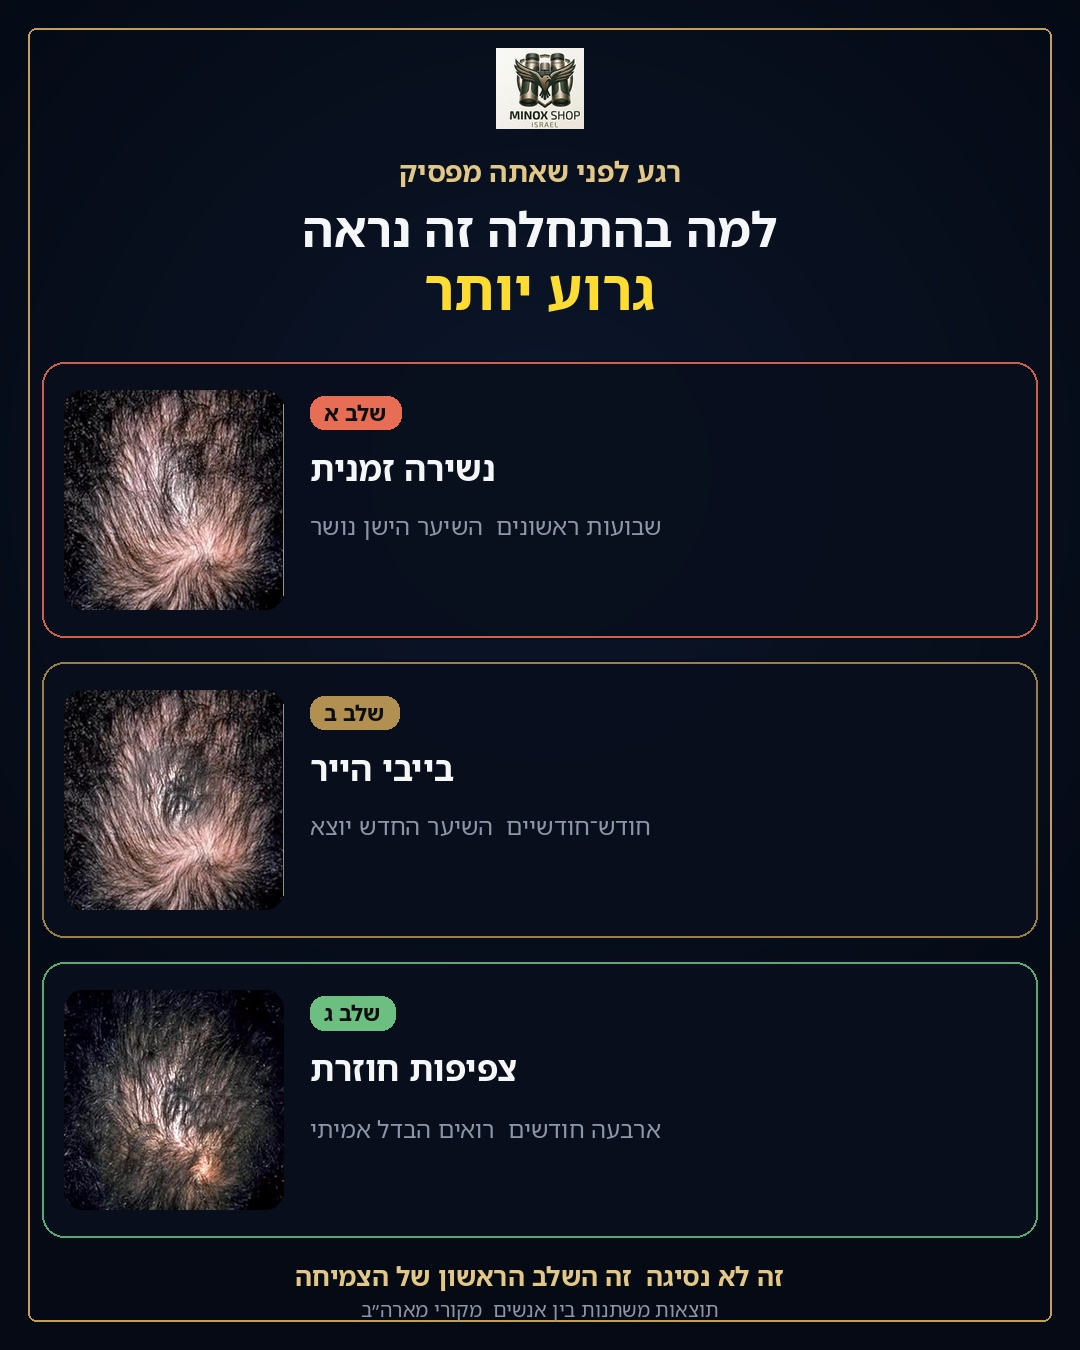
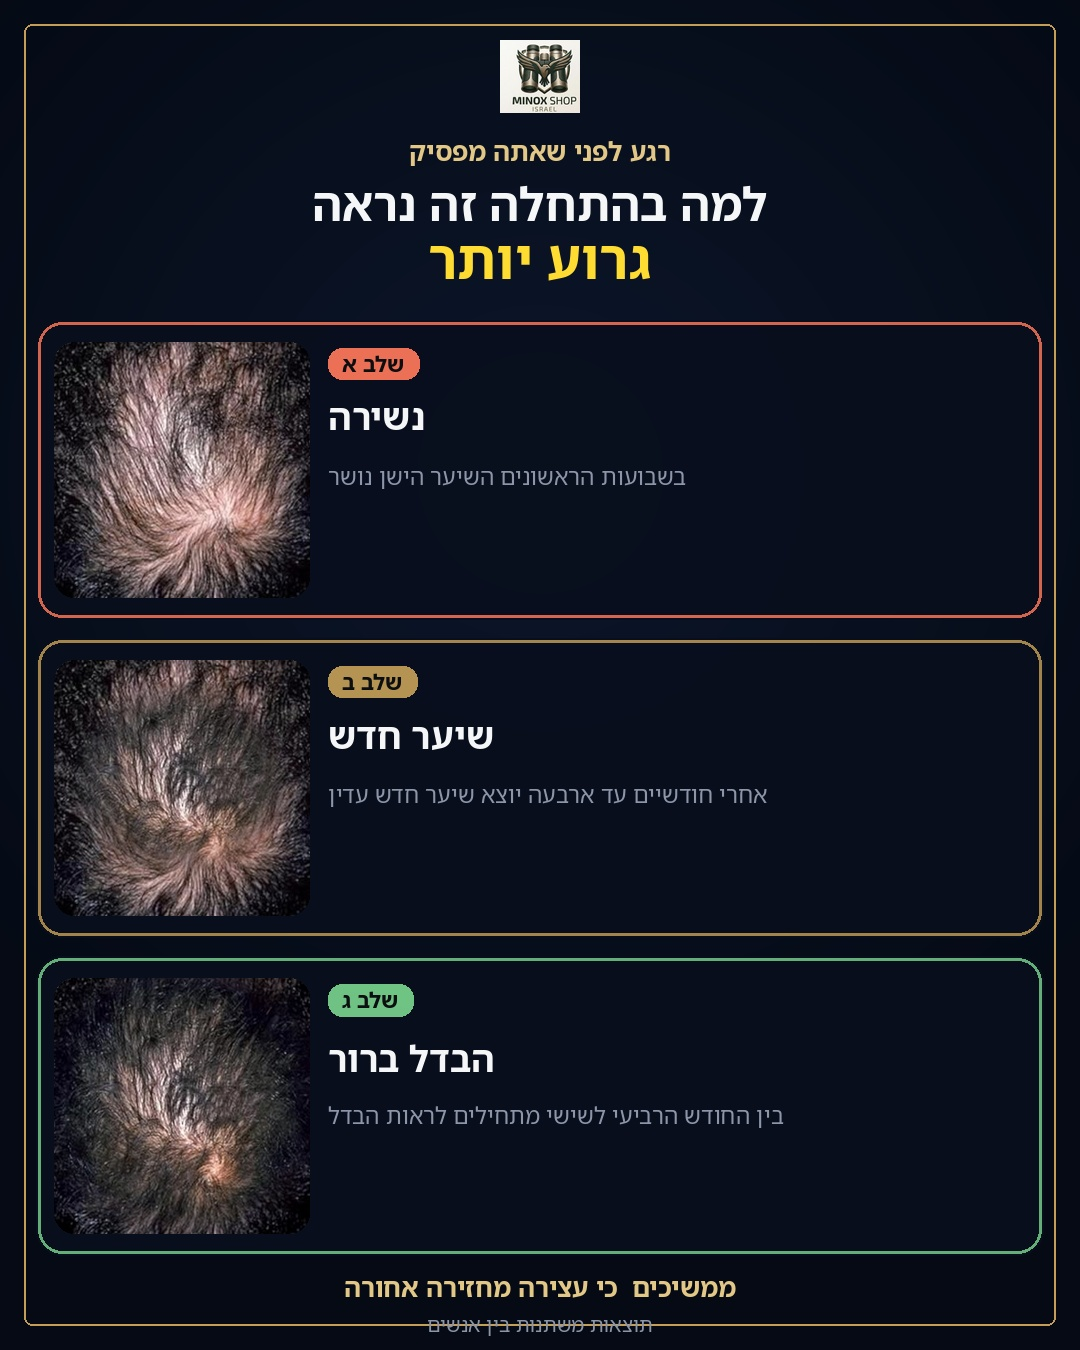
Fix shed-stages static: same-case A→B→C + honest copy (#197)
* Fix shed-stages static: distinct same-case plates + honest copy

Bigger photos, A→B→C on one crown, banner chrome cropped, timelines
corrected, titles נשירה/שיער חדש/הבדל ברור, keep-going closer.

* Strengthen mid-stage blend so A/B/C rank by eye

---------

Changed region(s): [[0.0, 0.0, 0.9778, 0.9956], [0.7028, 0.8089, 0.7333, 0.84], [0.7028, 0.2178, 0.7333, 0.2489]]

diff --git a/scripts/build_minox_static_shed_stages_v2.py b/scripts/build_minox_static_shed_stages_v2.py
@@ -1,0 +1,315 @@
+#!/usr/bin/env python3
+"""MinoxShop static IG post v2 — dread-shed stages, panel fixes.
+
+Fixes: 3 visually distinct plates, bigger photos, honest timelines,
+no «מקורי מארה״ב» on a no-pack educational post, keep-going closer.
+"""
+from __future__ import annotations
+
+import shutil
+from pathlib import Path
+
+import numpy as np
+from PIL import Image, ImageDraw, ImageEnhance, ImageFont
+
+ROOT = Path("/tmp/static-shed-v2")
+ASSETS = ROOT / "assets"
+OUT = ROOT / "out"
+EXPORTS = Path("/agent/repos/barbero-shop/exports")
+for p in (OUT, EXPORTS, ASSETS):
+    p.mkdir(parents=True, exist_ok=True)
+
+_SRC = Path("/tmp/static-shed/assets")
+if _SRC.exists():
+    for name in (
+        "ba-before.jpg",
+        "ba-after.jpg",
+        "res_before.jpg",
+        "res_after.jpg",
+        "strip_before.jpg",
+        "strip_after.jpg",
+        "plate_a.jpg",
+        "plate_c.jpg",
+        "main-logo.png",
+    ):
+        if (_SRC / name).exists():
+            shutil.copy2(_SRC / name, ASSETS / name)
+
+# inset plates from results strip — kill BEFORE/AFTER chrome bars (banner ~y738+)
+_strip = Path("/agent/repos/barbero-shop/minoxshop-growth-hero/assets/results-4-months.png")
+if _strip.exists():
+    r = Image.open(_strip).convert("RGB")
+    w, h = r.size
+    top, bot = 40, 720  # content only — flat banner starts ~738
+    r.crop((30, top, w // 2 - 20, bot)).save(ASSETS / "plate_a.jpg", quality=93)
+    r.crop((w // 2 + 20, top, w - 30, bot)).save(ASSETS / "plate_c.jpg", quality=93)
+
+W, H = 1080, 1350
+
+NAVY = (12, 22, 42)
+NAVY_DEEP = (5, 10, 20)
+GOLD = (196, 158, 86)
+GOLD_SOFT = (226, 199, 135)
+IVORY = (245, 246, 248)
+YELLOW = (255, 220, 50)
+MUTED = (140, 150, 168)
+
+FONT_HE_B = "/usr/share/fonts/truetype/noto/NotoSansHebrew-Bold.ttf"
+FONT_HE_R = "/usr/share/fonts/truetype/noto/NotoSansHebrew-Regular.ttf"
+
+
+def font(size: int, bold: bool = True):
+    return ImageFont.truetype(FONT_HE_B if bold else FONT_HE_R, size)
+
+
+def text_bb(draw, text, fnt):
+    bb = draw.textbbox((0, 0), text, font=fnt, language="he")
+    return bb[2] - bb[0], bb[3] - bb[1], bb
+
+
+def draw_he(d, xy, text, fnt, fill):
+    d.text(xy, text, font=fnt, fill=fill, language="he")
+
+
+def center_he(im, text, y, size, fill, bold=True):
+    layer = Image.new("RGBA", im.size, (0, 0, 0, 0))
+    d = ImageDraw.Draw(layer)
+    f = font(size, bold)
+    tw, th, bb = text_bb(d, text, f)
+    draw_he(d, ((W - tw) // 2 - bb[0], y - bb[1]), text, f, fill)
+    im.alpha_composite(layer)
+    return th
+
+
+def trim_white(im: Image.Image) -> Image.Image:
+    arr = np.asarray(im.convert("RGB"))
+    bright = arr.mean(axis=2) > 230
+    col = bright.mean(axis=0)
+    left = next((i for i, f in enumerate(col) if f < 0.3), 0)
+    right = next((i for i in range(len(col) - 1, -1, -1) if col[i] < 0.5), len(col) - 1)
+    if right - left < arr.shape[1] * 0.7:
+        return im
+    return im.crop((left, 0, right + 1, arr.shape[0]))
+
+
+def fit_square(im: Image.Image, size: int, y_bias: float = 0.38) -> Image.Image:
+    w, h = im.size
+    scale = max(size / w, size / h) * 1.06
+    nw, nh = int(w * scale + 0.5), int(h * scale + 0.5)
+    im = im.resize((nw, nh), Image.Resampling.LANCZOS)
+    x = (nw - size) // 2
+    y = max(0, min(nh - size, int((nh - size) * y_bias)))
+    return im.crop((x, y, x + size, y + size))
+
+
+def soft_blend(before: Image.Image, after: Image.Image, p: float) -> Image.Image:
+    p = max(0.0, min(1.0, p))
+    a = np.asarray(before).astype(np.float32)
+    b = np.asarray(after).astype(np.float32)
+    h, w = a.shape[:2]
+    yy, xx = np.mgrid[0:h, 0:w].astype(np.float32)
+    r = np.sqrt(((xx - w * 0.5) / (w * 0.50)) ** 2 + ((yy - h * 0.46) / (h * 0.44)) ** 2)
+    mask = np.clip((p * 1.3 - r) / 0.30, 0, 1)
+    out = a * (1 - mask[:, :, None]) + b * mask[:, :, None]
+    return Image.fromarray(np.clip(out, 0, 255).astype(np.uint8), "RGB")
+
+
+def reduce_flash(im: Image.Image) -> Image.Image:
+    """Pull harsh scalp glare down so density reads clearer."""
+    arr = np.asarray(im).astype(np.float32)
+    lum = 0.2126 * arr[:, :, 0] + 0.7152 * arr[:, :, 1] + 0.0722 * arr[:, :, 2]
+    glare = np.clip((lum - 110) / 90, 0, 1)
+    dark = lum < 80
+    hair = np.median(arr[dark], axis=0) if dark.any() else np.array([40.0, 28.0, 22.0])
+    arr2 = arr * (1 - glare[:, :, None] * 0.35) + hair * (glare[:, :, None] * 0.35)
+    out = Image.fromarray(np.clip(arr2, 0, 255).astype(np.uint8), "RGB")
+    return ImageEnhance.Contrast(ImageEnhance.Brightness(out).enhance(1.02)).enhance(1.08)
+
+
+def auto_trim_chrome(im: Image.Image) -> Image.Image:
+    """Drop flat BEFORE/AFTER banners and white side rails."""
+    a = np.asarray(im.convert("RGB"))
+    h, w = a.shape[:2]
+    bot = h
+    for y in range(h - 1, h // 2, -1):
+        if a[y].std() < 20 and a[y].mean() > 150:
+            bot = y
+        else:
+            break
+    top = 0
+    for y in range(0, h // 4):
+        if a[y].std() < 20 and a[y].mean() > 150:
+            top = y + 1
+        else:
+            break
+    left = 0
+    for x in range(0, w // 4):
+        if a[:, x].std() < 22 and a[:, x].mean() > 200:
+            left = x + 1
+        else:
+            break
+    right = w
+    for x in range(w - 1, 3 * w // 4, -1):
+        if a[:, x].std() < 22 and a[:, x].mean() > 200:
+            right = x
+        else:
+            break
+    if bot - top < h * 0.5 or right - left < w * 0.5:
+        return im
+    return im.crop((left, top, right, bot))
+
+
+BEFORE = trim_white(Image.open(ASSETS / "ba-before.jpg").convert("RGB"))
+AFTER = trim_white(Image.open(ASSETS / "ba-after.jpg").convert("RGB"))
+PLATE_A = auto_trim_chrome(Image.open(ASSETS / "plate_a.jpg").convert("RGB")) if (ASSETS / "plate_a.jpg").exists() else BEFORE
+PLATE_C = auto_trim_chrome(Image.open(ASSETS / "plate_c.jpg").convert("RGB")) if (ASSETS / "plate_c.jpg").exists() else AFTER
+LOGO = Image.open(ASSETS / "main-logo.png").convert("RGBA")
+
+# SAME case A→B→C — hard-crop bottom chrome, then one shared square crop
+SZ = 640
+
+
+def kill_bottom_banner(im: Image.Image, frac: float = 0.14) -> Image.Image:
+    w, h = im.size
+    return im.crop((0, 0, w, int(h * (1 - frac))))
+
+
+PLATE_A = kill_bottom_banner(PLATE_A, 0.16)
+PLATE_C = kill_bottom_banner(PLATE_C, 0.16)
+# shared framing so A/B/C stay the same crown
+BASE_A = fit_square(PLATE_A, SZ, 0.44)
+BASE_C = fit_square(PLATE_C, SZ, 0.44)
+EARLY = ImageEnhance.Brightness(BASE_A).enhance(1.03)
+MID = soft_blend(BASE_A, BASE_C, 0.68)  # clearly past A — fine fill visible
+LATE = soft_blend(BASE_A, BASE_C, 1.0)  # full after plate, same framing as A/B
+LATE = ImageEnhance.Contrast(LATE).enhance(1.05)
+
+
+def navy_bg() -> Image.Image:
+    yy, xx = np.mgrid[0:H, 0:W].astype(np.float32)
+    r = np.sqrt(((xx - W / 2) / (W * 0.7)) ** 2 + ((yy - H * 0.35) / (H * 0.55)) ** 2)
+    s = np.clip(1.1 - r, 0, 1) ** 1.35
+    deep = np.array(NAVY_DEEP, np.float32)
+    base = np.array(NAVY, np.float32)
+    arr = deep + (base - deep) * s[:, :, None]
+    return Image.fromarray(np.clip(arr, 0, 255).astype(np.uint8), "RGB").convert("RGBA")
+
+
+def wrap_he(draw, text, fnt, max_w):
+    """Simple space wrap for Hebrew (logical order)."""
+    words = text.split()
+    lines, cur = [], ""
+    for w in words:
+        trial = (w + " " + cur).strip() if cur else w
+        # for RTL display we still measure logical string
+        tw, _, _ = text_bb(draw, trial if not cur else (cur + " " + w), fnt)
+        candidate = w if not cur else cur + " " + w
+        tw, _, _ = text_bb(draw, candidate, fnt)
+        if tw <= max_w or not cur:
+            cur = candidate
+        else:
+            lines.append(cur)
+            cur = w
+    if cur:
+        lines.append(cur)
+    return lines
+
+
+def stage_card(photo: Image.Image, badge: str, title: str, sub: str, accent) -> Image.Image:
+    """Bigger photo left — text right. Readable without fake density."""
+    cw, ch = W - 72, 300
+    card = Image.new("RGBA", (cw, ch), (0, 0, 0, 0))
+    d = ImageDraw.Draw(card)
+    d.rounded_rectangle([0, 0, cw - 1, ch - 1], 26, fill=(8, 14, 28, 235))
+    d.rounded_rectangle([2, 2, cw - 3, ch - 3], 24, outline=(*accent, 210), width=3)
+
+    ph = 256
+    pic = photo.resize((ph, ph), Image.Resampling.LANCZOS).convert("RGBA")
+    clip = Image.new("L", (ph, ph), 0)
+    ImageDraw.Draw(clip).rounded_rectangle([0, 0, ph - 1, ph - 1], 20, fill=255)
+    pic.putalpha(clip)
+    card.alpha_composite(pic, (18, (ch - ph) // 2))
+
+    tx = 292
+    text_w = cw - tx - 24
+
+    f_b = font(22, True)
+    tw, th, bb = text_bb(d, badge, f_b)
+    bx, by = tx, 28
+    d.rounded_rectangle([bx, by, bx + tw + 28, by + th + 14], 14, fill=(*accent, 235))
+    draw_he(d, (bx + 14 - bb[0], by + 7 - bb[1]), badge, f_b, (12, 14, 18, 255))
+
+    f_t = font(36, True)
+    tw, th, bb = text_bb(d, title, f_t)
+    draw_he(d, (tx - bb[0], 88 - bb[1]), title, f_t, (*IVORY, 255))
+
+    f_s = font(23, False)
+    lines = wrap_he(d, sub, f_s, text_w)
+    yy = 150
+    for line in lines[:3]:
+        tw, th, bb = text_bb(d, line, f_s)
+        draw_he(d, (tx - bb[0], yy - bb[1]), line, f_s, (*MUTED, 255))
+        yy += th + 8
+    return card
+
+
+def build() -> Image.Image:
+    im = navy_bg()
+    d = ImageDraw.Draw(im)
+    d.rounded_rectangle([24, 24, W - 25, H - 25], 8, outline=(*GOLD, 150), width=2)
+
+    logo = LOGO.copy()
+    logo.thumbnail((80, 80), Image.Resampling.LANCZOS)
+    im.alpha_composite(logo, ((W - logo.size[0]) // 2, 40))
+
+    center_he(im, "רגע לפני שאתה מפסיק", 140, 26, GOLD_SOFT, True)
+    center_he(im, "למה בהתחלה זה נראה", 185, 46, IVORY, True)
+    center_he(im, "גרוע יותר", 245, 54, YELLOW, True)
+
+    stages = [
+        (
+            EARLY,
+            "שלב א",
+            "נשירה",
+            "בשבועות הראשונים השיער הישן נושר",
+            (255, 120, 90),
+        ),
+        (
+            MID,
+            "שלב ב",
+            "שיער חדש",
+            "אחרי חודשיים עד ארבעה יוצא שיער חדש עדין",
+            GOLD,
+        ),
+        (
+            LATE,
+            "שלב ג",
+            "הבדל ברור",
+            "בין החודש הרביעי לשישי מתחילים לראות הבדל",
+            (120, 210, 140),
+        ),
+    ]
+
+    y = 320
+    for photo, badge, title, sub, accent in stages:
+        card = stage_card(photo, badge, title, sub, accent)
+        im.alpha_composite(card, (36, y))
+        y += 318
+
+    center_he(im, "ממשיכים  כי עצירה מחזירה אחורה", 1280, 26, GOLD_SOFT, True)
+    center_he(im, "תוצאות משתנות בין אנשים", 1320, 20, MUTED, False)
+    return im.convert("RGB")
+
+
+def main():
+    im = build()
+    path = EXPORTS / "MinoxShop-static-shed-stages-v2.jpg"
+    im.save(path, quality=95, optimize=True)
+    im.save(OUT / "shed-stages-v2.jpg", quality=95)
+    # also refresh canonical name for feed use
+    im.save(EXPORTS / "MinoxShop-static-shed-stages.jpg", quality=95, optimize=True)
+    print("WROTE", path, im.size)
+
+
+if __name__ == "__main__":
+    main()
